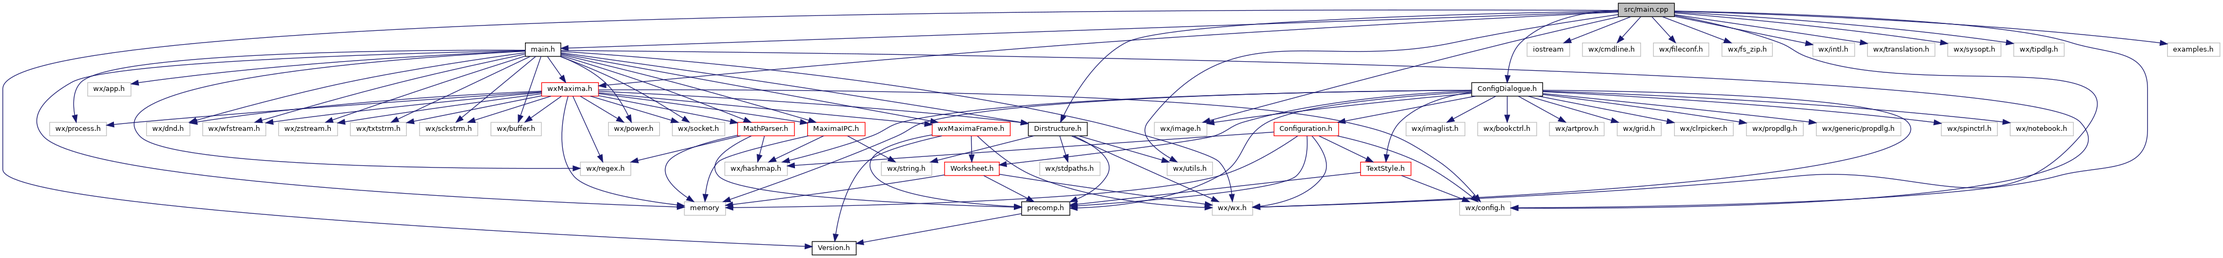
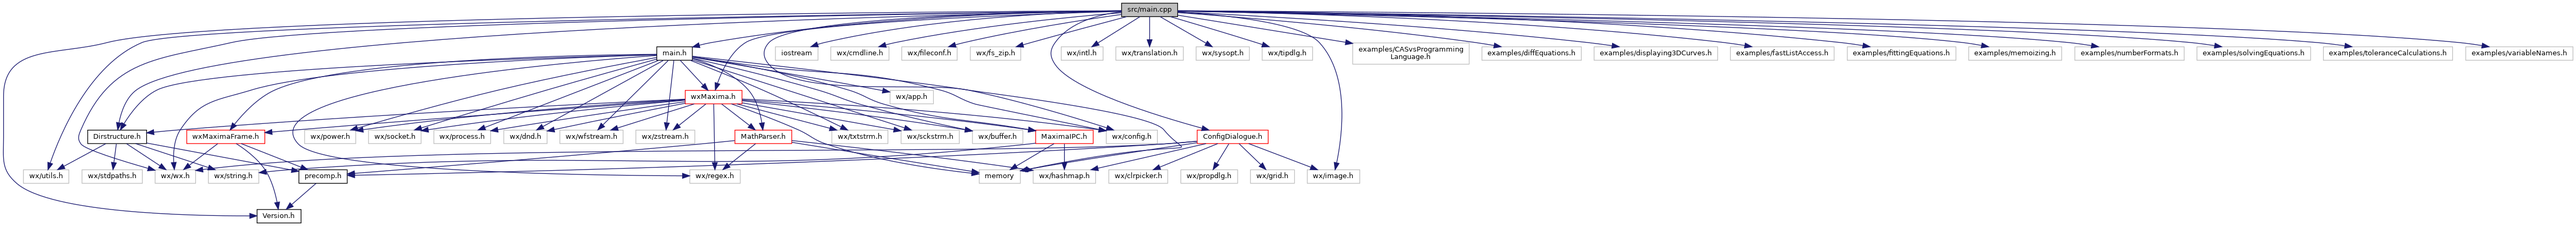
Deploying to gh-pages from @ wxMaxima-developers/wxmaxima@0eec170c838e0178c74e92ea2931adc6a4676354 🚀

diff --git a/Doxygen-documentation/main_8cpp.html b/Doxygen-documentation/main_8cpp.html
@@ -91,63 +91,72 @@ $(function() {
 <code>#include &lt;wx/wx.h&gt;</code><br />
 <code>#include &quot;<a class="el" href="ConfigDialogue_8h_source.html">ConfigDialogue.h</a>&quot;</code><br />
 <code>#include &quot;Version.h&quot;</code><br />
-<code>#include &quot;examples.h&quot;</code><br />
+<code>#include &quot;examples/CASvsProgrammingLanguage.h&quot;</code><br />
+<code>#include &quot;examples/diffEquations.h&quot;</code><br />
+<code>#include &quot;examples/displaying3DCurves.h&quot;</code><br />
+<code>#include &quot;examples/fastListAccess.h&quot;</code><br />
+<code>#include &quot;examples/fittingEquations.h&quot;</code><br />
+<code>#include &quot;examples/memoizing.h&quot;</code><br />
+<code>#include &quot;examples/numberFormats.h&quot;</code><br />
+<code>#include &quot;examples/solvingEquations.h&quot;</code><br />
+<code>#include &quot;examples/toleranceCalculations.h&quot;</code><br />
+<code>#include &quot;examples/variableNames.h&quot;</code><br />
 <code>#include &quot;<a class="el" href="wxMaxima_8h_source.html">wxMaxima.h</a>&quot;</code><br />
 </div><div class="textblock"><div class="dynheader">
 Include dependency graph for main.cpp:</div>
 <div class="dyncontent">
 <div class="center"><img src="main_8cpp__incl.png" border="0" usemap="#asrc_2main_8cpp" alt=""/></div>
 <map name="asrc_2main_8cpp" id="asrc_2main_8cpp">
-<area shape="rect" title="The file that defines the starting point of the program." alt="" coords="3039,5,3145,32"/>
-<area shape="rect" href="main_8h.html" title="This file declares the class wxMaxima that contains most of the program&#39;s logic." alt="" coords="987,80,1053,107"/>
-<area shape="rect" href="wxMaxima_8h.html" title="This file declares the class wxMaxima that contains most of the program&#39;s logic." alt="" coords="1017,155,1124,181"/>
-<area shape="rect" href="Version_8h_source.html" title=" " alt="" coords="1525,453,1608,480"/>
-<area shape="rect" title=" " alt="" coords="2277,379,2353,405"/>
-<area shape="rect" href="Dirstructure_8h.html" title="This file declares the class DirStructure." alt="" coords="1931,229,2042,256"/>
-<area shape="rect" title=" " alt="" coords="2192,304,2277,331"/>
-<area shape="rect" title=" " alt="" coords="2741,379,2837,405"/>
-<area shape="rect" title=" " alt="" coords="2868,80,2948,107"/>
-<area shape="rect" title=" " alt="" coords="2972,80,3081,107"/>
-<area shape="rect" title=" " alt="" coords="3105,80,3209,107"/>
-<area shape="rect" title=" " alt="" coords="3234,80,3329,107"/>
-<area shape="rect" title=" " alt="" coords="2168,229,2267,256"/>
-<area shape="rect" title=" " alt="" coords="3405,80,3483,107"/>
-<area shape="rect" title=" " alt="" coords="3507,80,3634,107"/>
-<area shape="rect" title=" " alt="" coords="3658,80,3758,107"/>
-<area shape="rect" title=" " alt="" coords="3782,80,3877,107"/>
-<area shape="rect" href="ConfigDialogue_8h.html" title="The configuration dialog." alt="" coords="2764,155,2897,181"/>
-<area shape="rect" title=" " alt="" coords="4071,80,4169,107"/>
-<area shape="rect" href="wxMaximaFrame_8h.html" title="This file declares the class wxMaximaFrame." alt="" coords="1751,229,1897,256"/>
-<area shape="rect" title=" " alt="" coords="1285,379,1363,405"/>
-<area shape="rect" href="MathParser_8h.html" title="The header file for the xml cell parser." alt="" coords="1385,229,1492,256"/>
-<area shape="rect" title=" " alt="" coords="1090,304,1185,331"/>
-<area shape="rect" href="MaximaIPC_8h_source.html" title=" " alt="" coords="1517,229,1625,256"/>
-<area shape="rect" title=" " alt="" coords="1263,229,1361,256"/>
-<area shape="rect" title=" " alt="" coords="93,229,200,256"/>
-<area shape="rect" title=" " alt="" coords="275,229,357,256"/>
-<area shape="rect" title=" " alt="" coords="381,229,499,256"/>
-<area shape="rect" title=" " alt="" coords="523,229,634,256"/>
-<area shape="rect" title=" " alt="" coords="658,229,763,256"/>
-<area shape="rect" title=" " alt="" coords="788,229,897,256"/>
-<area shape="rect" title=" " alt="" coords="922,229,1017,256"/>
-<area shape="rect" title=" " alt="" coords="1143,229,1239,256"/>
-<area shape="rect" title=" " alt="" coords="165,155,246,181"/>
-<area shape="rect" href="precomp_8h_source.html" title=" " alt="" coords="1919,379,2009,405"/>
-<area shape="rect" href="Worksheet_8h.html" title="This file defines the class Worksheet." alt="" coords="1774,304,1877,331"/>
-<area shape="rect" title=" " alt="" coords="1361,304,1479,331"/>
-<area shape="rect" title=" " alt="" coords="1655,304,1750,331"/>
-<area shape="rect" title=" " alt="" coords="1953,304,2066,331"/>
-<area shape="rect" title=" " alt="" coords="3037,229,3120,256"/>
-<area shape="rect" title=" " alt="" coords="3145,229,3255,256"/>
-<area shape="rect" title=" " alt="" coords="3280,229,3387,256"/>
-<area shape="rect" title=" " alt="" coords="3411,229,3570,256"/>
-<area shape="rect" title=" " alt="" coords="3646,229,3751,256"/>
-<area shape="rect" title=" " alt="" coords="3775,229,3894,256"/>
-<area shape="rect" title=" " alt="" coords="2641,229,2751,256"/>
-<area shape="rect" title=" " alt="" coords="2775,229,2886,256"/>
-<area shape="rect" title=" " alt="" coords="2910,229,3013,256"/>
-<area shape="rect" href="TextStyle_8h.html" title="This file declares everything needed for the text style system used to style all the elements on the ..." alt="" coords="2555,304,2650,331"/>
-<area shape="rect" href="Configuration_8h_source.html" title=" " alt="" coords="2393,229,2514,256"/>
+<area shape="rect" title="The file that defines the starting point of the program." alt="" coords="2106,5,2211,32"/>
+<area shape="rect" href="main_8h.html" title="This file declares the class wxMaxima that contains most of the program&#39;s logic." alt="" coords="1233,87,1300,114"/>
+<area shape="rect" href="wxMaxima_8h.html" title="This file declares the class wxMaxima that contains most of the program&#39;s logic." alt="" coords="1287,169,1393,196"/>
+<area shape="rect" href="Version_8h_source.html" title=" " alt="" coords="483,393,565,420"/>
+<area shape="rect" title=" " alt="" coords="291,319,367,345"/>
+<area shape="rect" href="Dirstructure_8h.html" title="This file declares the class DirStructure." alt="" coords="165,244,275,271"/>
+<area shape="rect" title=" " alt="" coords="44,319,129,345"/>
+<area shape="rect" title=" " alt="" coords="2077,244,2173,271"/>
+<area shape="rect" title=" " alt="" coords="1456,87,1536,114"/>
+<area shape="rect" title=" " alt="" coords="1560,87,1669,114"/>
+<area shape="rect" title=" " alt="" coords="1693,87,1797,114"/>
+<area shape="rect" title=" " alt="" coords="1822,87,1917,114"/>
+<area shape="rect" title=" " alt="" coords="2455,319,2553,345"/>
+<area shape="rect" title=" " alt="" coords="1993,87,2071,114"/>
+<area shape="rect" title=" " alt="" coords="2095,87,2222,114"/>
+<area shape="rect" title=" " alt="" coords="2246,87,2346,114"/>
+<area shape="rect" title=" " alt="" coords="2370,87,2465,114"/>
+<area shape="rect" href="ConfigDialogue_8h.html" title="The configuration dialog." alt="" coords="2248,244,2381,271"/>
+<area shape="rect" title=" " alt="" coords="2540,80,2759,121"/>
+<area shape="rect" title=" " alt="" coords="2783,87,2969,114"/>
+<area shape="rect" title=" " alt="" coords="2993,87,3225,114"/>
+<area shape="rect" title=" " alt="" coords="3249,87,3444,114"/>
+<area shape="rect" title=" " alt="" coords="3469,87,3673,114"/>
+<area shape="rect" title=" " alt="" coords="3697,87,3871,114"/>
+<area shape="rect" title=" " alt="" coords="3896,87,4101,114"/>
+<area shape="rect" title=" " alt="" coords="4125,87,4339,114"/>
+<area shape="rect" title=" " alt="" coords="4363,87,4605,114"/>
+<area shape="rect" title=" " alt="" coords="4630,87,4831,114"/>
+<area shape="rect" href="wxMaximaFrame_8h.html" title="This file declares the class wxMaximaFrame." alt="" coords="351,244,497,271"/>
+<area shape="rect" href="MathParser_8h.html" title="The header file for the xml cell parser." alt="" coords="1380,244,1487,271"/>
+<area shape="rect" title=" " alt="" coords="1839,319,1916,345"/>
+<area shape="rect" title=" " alt="" coords="1295,319,1390,345"/>
+<area shape="rect" href="MaximaIPC_8h_source.html" title=" " alt="" coords="1945,244,2053,271"/>
+<area shape="rect" title=" " alt="" coords="692,244,791,271"/>
+<area shape="rect" title=" " alt="" coords="815,244,921,271"/>
+<area shape="rect" title=" " alt="" coords="946,244,1027,271"/>
+<area shape="rect" title=" " alt="" coords="1051,244,1170,271"/>
+<area shape="rect" title=" " alt="" coords="1194,244,1305,271"/>
+<area shape="rect" title=" " alt="" coords="1562,244,1667,271"/>
+<area shape="rect" title=" " alt="" coords="1692,244,1801,271"/>
+<area shape="rect" title=" " alt="" coords="1826,244,1921,271"/>
+<area shape="rect" title=" " alt="" coords="572,244,668,271"/>
+<area shape="rect" title=" " alt="" coords="1671,169,1753,196"/>
+<area shape="rect" href="precomp_8h_source.html" title=" " alt="" coords="561,319,652,345"/>
+<area shape="rect" title=" " alt="" coords="1940,319,2057,345"/>
+<area shape="rect" title=" " alt="" coords="391,319,486,345"/>
+<area shape="rect" title=" " alt="" coords="154,319,267,345"/>
+<area shape="rect" title=" " alt="" coords="2348,319,2431,345"/>
+<area shape="rect" title=" " alt="" coords="2082,319,2193,345"/>
+<area shape="rect" title=" " alt="" coords="2217,319,2324,345"/>
 </map>
 </div>
 </div><table class="memberdecls">

diff --git a/Doxygen-documentation/main_8h_source.html b/Doxygen-documentation/main_8h_source.html
@@ -157,7 +157,7 @@ $(function() {
 <div class="ttc" id="aclassMaximaEvent_html"><div class="ttname"><a href="classMaximaEvent.html">MaximaEvent</a></div><div class="ttdef"><b>Definition:</b> Maxima.h:108</div></div>
 <div class="ttc" id="aclassMaxima_html"><div class="ttname"><a href="classMaxima.html">Maxima</a></div><div class="ttdoc">Interface to the Maxima process.</div><div class="ttdef"><b>Definition:</b> Maxima.h:53</div></div>
 <div class="ttc" id="aclassMyApp_html"><div class="ttname"><a href="classMyApp.html">MyApp</a></div><div class="ttdef"><b>Definition:</b> main.h:61</div></div>
-<div class="ttc" id="aclassMyApp_html_a1f6e5cf2600da99f0e3fc6356f36dfc7"><div class="ttname"><a href="classMyApp.html#a1f6e5cf2600da99f0e3fc6356f36dfc7">MyApp::NewWindow</a></div><div class="ttdeci">void NewWindow(const wxString &amp;file={}, bool evalOnStartup=false, bool exitAfterEval=false, unsigned char *wxmData=NULL, size_t wxmLen=0)</div><div class="ttdoc">Create a new window.</div><div class="ttdef"><b>Definition:</b> main.cpp:463</div></div>
+<div class="ttc" id="aclassMyApp_html_a1f6e5cf2600da99f0e3fc6356f36dfc7"><div class="ttname"><a href="classMyApp.html#a1f6e5cf2600da99f0e3fc6356f36dfc7">MyApp::NewWindow</a></div><div class="ttdeci">void NewWindow(const wxString &amp;file={}, bool evalOnStartup=false, bool exitAfterEval=false, unsigned char *wxmData=NULL, size_t wxmLen=0)</div><div class="ttdoc">Create a new window.</div><div class="ttdef"><b>Definition:</b> main.cpp:473</div></div>
 <div class="ttc" id="awxMaximaFrame_8h_html"><div class="ttname"><a href="wxMaximaFrame_8h.html">wxMaximaFrame.h</a></div><div class="ttdoc">This file declares the class wxMaximaFrame.</div></div>
 <div class="ttc" id="awxMaxima_8h_html"><div class="ttname"><a href="wxMaxima_8h.html">wxMaxima.h</a></div><div class="ttdoc">This file declares the class wxMaxima that contains most of the program's logic.</div></div>
 </div><!-- fragment --></div><!-- contents -->
